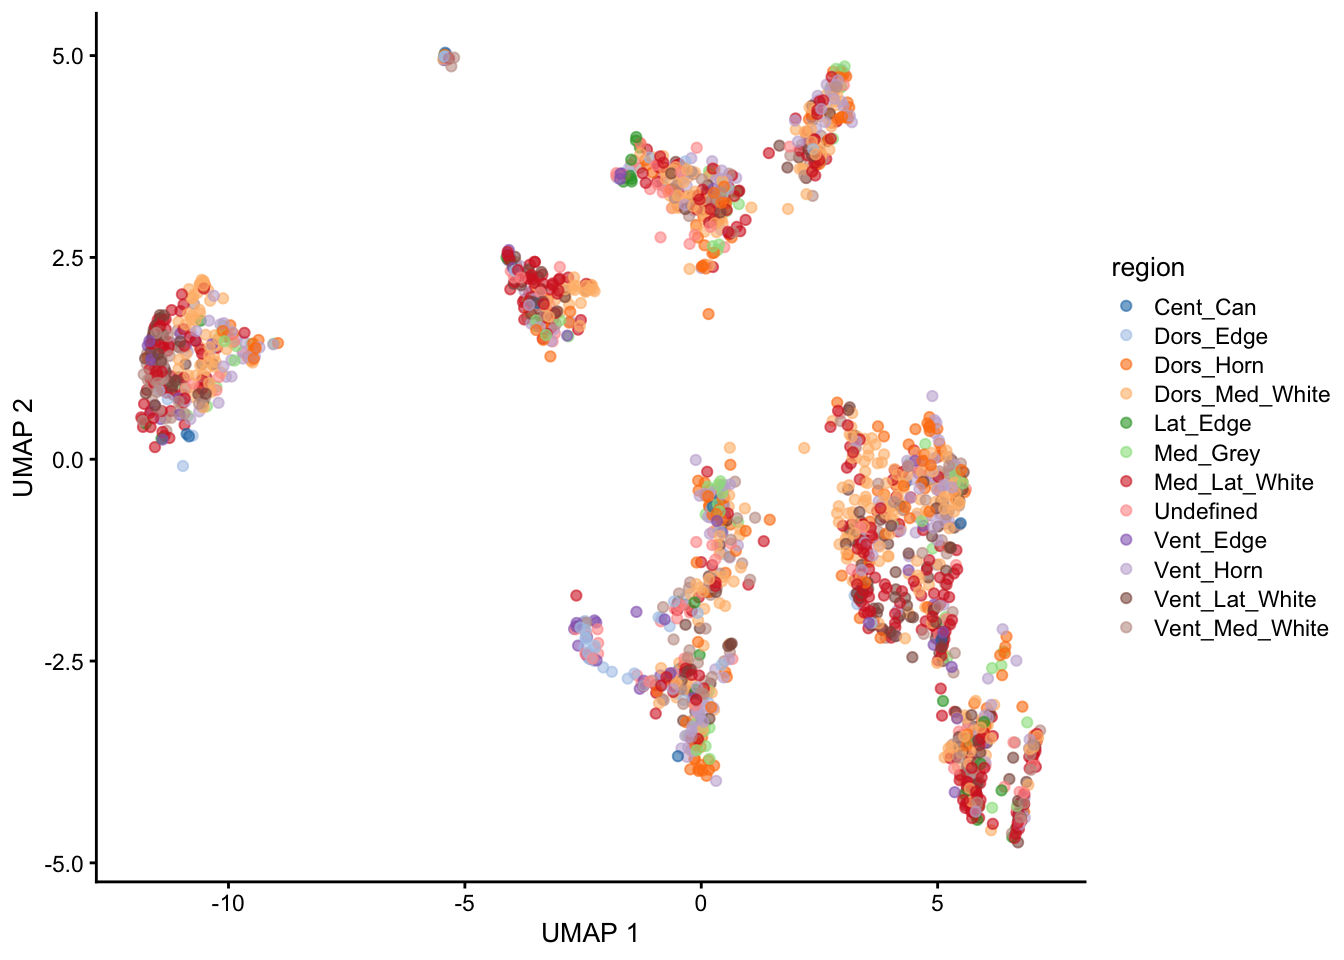
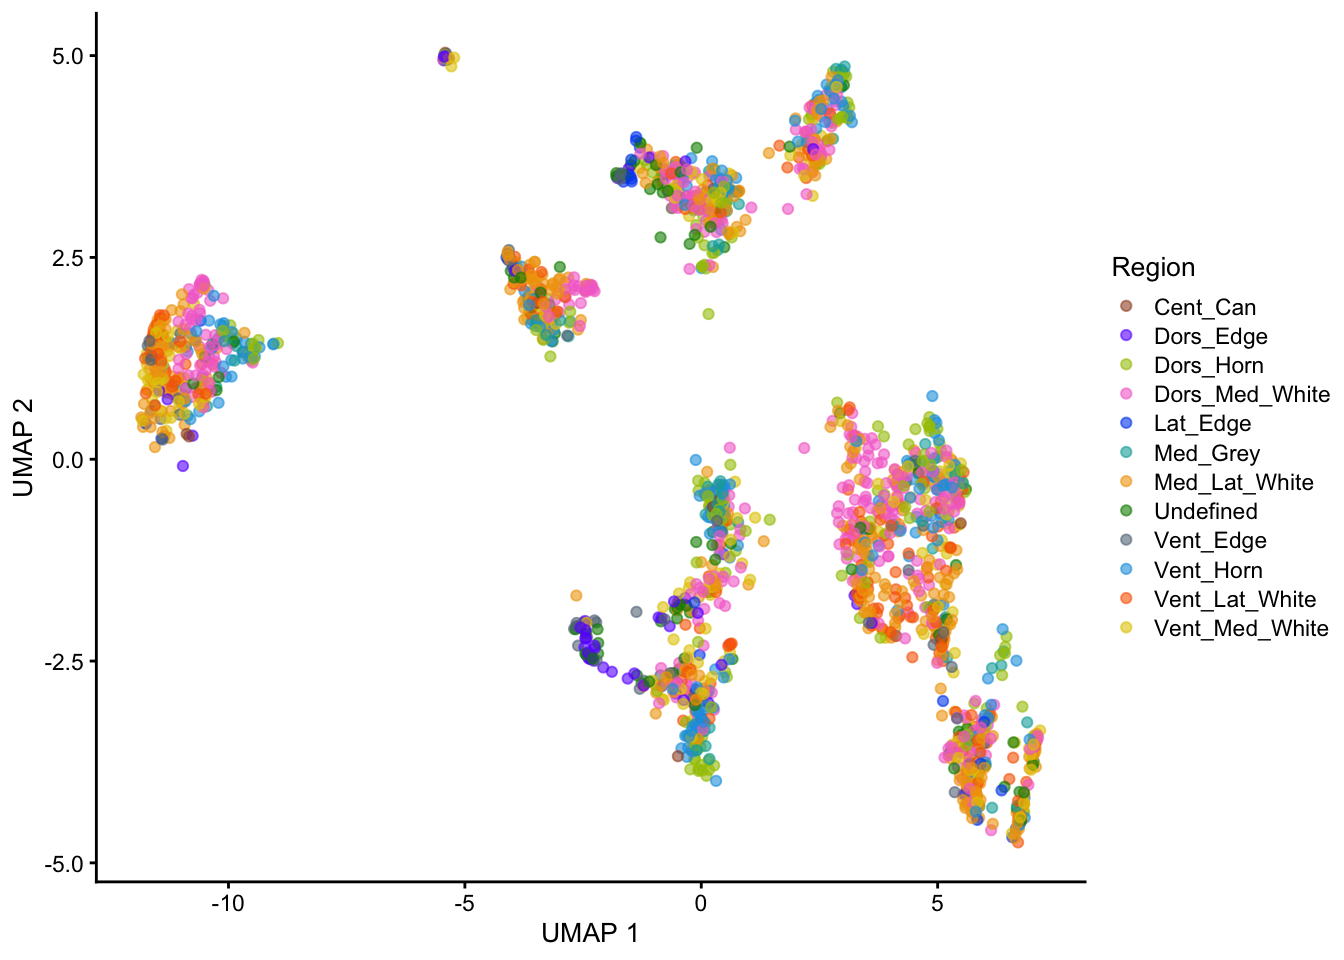
Build site.

diff --git a/docs/human_spine_overview.html b/docs/human_spine_overview.html
@@ -388,7 +388,7 @@ class="glyphicon glyphicon-ok text-success" aria-hidden="true"></span>
 <div class="tab-content">
 <div id="summary" class="tab-pane fade in active">
 <p>
-<strong>Last updated:</strong> 2024-10-17
+<strong>Last updated:</strong> 2024-10-19
 </p>
 <p>
 <strong>Checks:</strong> <span
@@ -519,15 +519,15 @@ project makes it easier to run your code on other machines.</p>
 <div class="panel panel-default">
 <div class="panel-heading">
 <p class="panel-title">
-<a data-toggle="collapse" data-parent="#workflowr-checks" href="#strongRepositoryversionstrongahrefhttpsgithubcomCHWDEanalysistree3cc527a6cde73af70788d35e41e89214d1684cebtargetblank3cc527aa">
+<a data-toggle="collapse" data-parent="#workflowr-checks" href="#strongRepositoryversionstrongahrefhttpsgithubcomCHWDEanalysistreebd0a995c365529ea247dbe93bb810cfa9fe3c8e1targetblankbd0a995a">
 <span class="glyphicon glyphicon-ok text-success"
 aria-hidden="true"></span> <strong>Repository version:</strong>
-<a href="https://github.com/C-HW/DEanalysis/tree/3cc527a6cde73af70788d35e41e89214d1684ceb" target="_blank">3cc527a</a>
+<a href="https://github.com/C-HW/DEanalysis/tree/bd0a995c365529ea247dbe93bb810cfa9fe3c8e1" target="_blank">bd0a995</a>
 </a>
 </p>
 </div>
 <div
[2 lines of base64/hex data omitted]
 class="panel-collapse collapse">
 <div class="panel-body">
 <p>
@@ -537,7 +537,7 @@ reproducibility.
 </p>
 <p>
 The results in this page were generated with repository version
-<a href="https://github.com/C-HW/DEanalysis/tree/3cc527a6cde73af70788d35e41e89214d1684ceb" target="_blank">3cc527a</a>.
+<a href="https://github.com/C-HW/DEanalysis/tree/bd0a995c365529ea247dbe93bb810cfa9fe3c8e1" target="_blank">bd0a995</a>.
 See the <em>Past versions</em> tab to see a history of the changes made
 to the R Markdown and HTML files.
 </p>
@@ -584,8 +584,10 @@ Untracked files:
     Untracked:  data/permutation.RData
     Untracked:  data/permutation13.RData
     Untracked:  data/permutation2.RData
+    Untracked:  data/splatter_simulation.RData
     Untracked:  data/splatter_simulation1.RData
     Untracked:  data/splatter_simulation2.RData
+    Untracked:  data/splatter_simulation3.RData
     Untracked:  data/vstcounts.Rdata
     Untracked:  figure/
 
@@ -637,6 +639,40 @@ Message
 </tr>
 </thead>
 <tbody>
+<tr>
+<td>
+Rmd
+</td>
+<td>
+<a href="https://github.com/C-HW/DEanalysis/blob/bd0a995c365529ea247dbe93bb810cfa9fe3c8e1/analysis/human_spine_overview.Rmd" target="_blank">bd0a995</a>
+</td>
+<td>
+C-HW
+</td>
+<td>
+2024-10-19
+</td>
+<td>
+assign color
+</td>
+</tr>
+<tr>
+<td>
+html
+</td>
+<td>
+<a href="https://rawcdn.githack.com/C-HW/DEanalysis/7fdbf04d6763b6fbb79798d4dfb79bcf51706aac/docs/human_spine_overview.html" target="_blank">7fdbf04</a>
+</td>
+<td>
+C-HW
+</td>
+<td>
+2024-10-17
+</td>
+<td>
+Build site.
+</td>
+</tr>
 <tr>
 <td>
 Rmd
@@ -758,6 +794,17 @@ Date
 <tbody>
 <tr>
 <td>
+<a href="https://github.com/C-HW/DEanalysis/blob/7fdbf04d6763b6fbb79798d4dfb79bcf51706aac/docs/figure/human_spine_overview.Rmd/unnamed-chunk-3-1.png" target="_blank">7fdbf04</a>
+</td>
+<td>
+C-HW
+</td>
+<td>
+2024-10-17
+</td>
+</tr>
+<tr>
+<td>
 <a href="https://github.com/C-HW/DEanalysis/blob/7fed56cc2dac1e71a3a4f647b543570c49df8b0d/docs/figure/human_spine_overview.Rmd/unnamed-chunk-3-1.png" target="_blank">7fed56c</a>
 </td>
 <td>
@@ -797,6 +844,17 @@ Date
 </tr>
 </thead>
 <tbody>
+<tr>
+<td>
+<a href="https://github.com/C-HW/DEanalysis/blob/7fdbf04d6763b6fbb79798d4dfb79bcf51706aac/docs/figure/human_spine_overview.Rmd/unnamed-chunk-4-1.png" target="_blank">7fdbf04</a>
+</td>
+<td>
+C-HW
+</td>
+<td>
+2024-10-17
+</td>
+</tr>
 <tr>
 <td>
 <a href="https://github.com/C-HW/DEanalysis/blob/7fed56cc2dac1e71a3a4f647b543570c49df8b0d/docs/figure/human_spine_overview.Rmd/unnamed-chunk-4-1.png" target="_blank">7fed56c</a>
@@ -1085,6 +1143,17 @@ Date
 <tbody>
 <tr>
 <td>
+<a href="https://github.com/C-HW/DEanalysis/blob/7fdbf04d6763b6fbb79798d4dfb79bcf51706aac/docs/figure/human_spine_overview.Rmd/unnamed-chunk-9-1.png" target="_blank">7fdbf04</a>
+</td>
+<td>
+C-HW
+</td>
+<td>
+2024-10-17
+</td>
+</tr>
+<tr>
+<td>
 <a href="https://github.com/C-HW/DEanalysis/blob/7fed56cc2dac1e71a3a4f647b543570c49df8b0d/docs/figure/human_spine_overview.Rmd/unnamed-chunk-9-1.png" target="_blank">7fed56c</a>
 </td>
 <td>
@@ -1121,6 +1190,17 @@ Date
 </tr>
 </thead>
 <tbody>
+<tr>
+<td>
+<a href="https://github.com/C-HW/DEanalysis/blob/7fdbf04d6763b6fbb79798d4dfb79bcf51706aac/docs/figure/human_spine_overview.Rmd/unnamed-chunk-9-2.png" target="_blank">7fdbf04</a>
+</td>
+<td>
+C-HW
+</td>
+<td>
+2024-10-17
+</td>
+</tr>
 <tr>
 <td>
 <a href="https://github.com/C-HW/DEanalysis/blob/7fed56cc2dac1e71a3a4f647b543570c49df8b0d/docs/figure/human_spine_overview.Rmd/unnamed-chunk-9-2.png" target="_blank">7fed56c</a>
